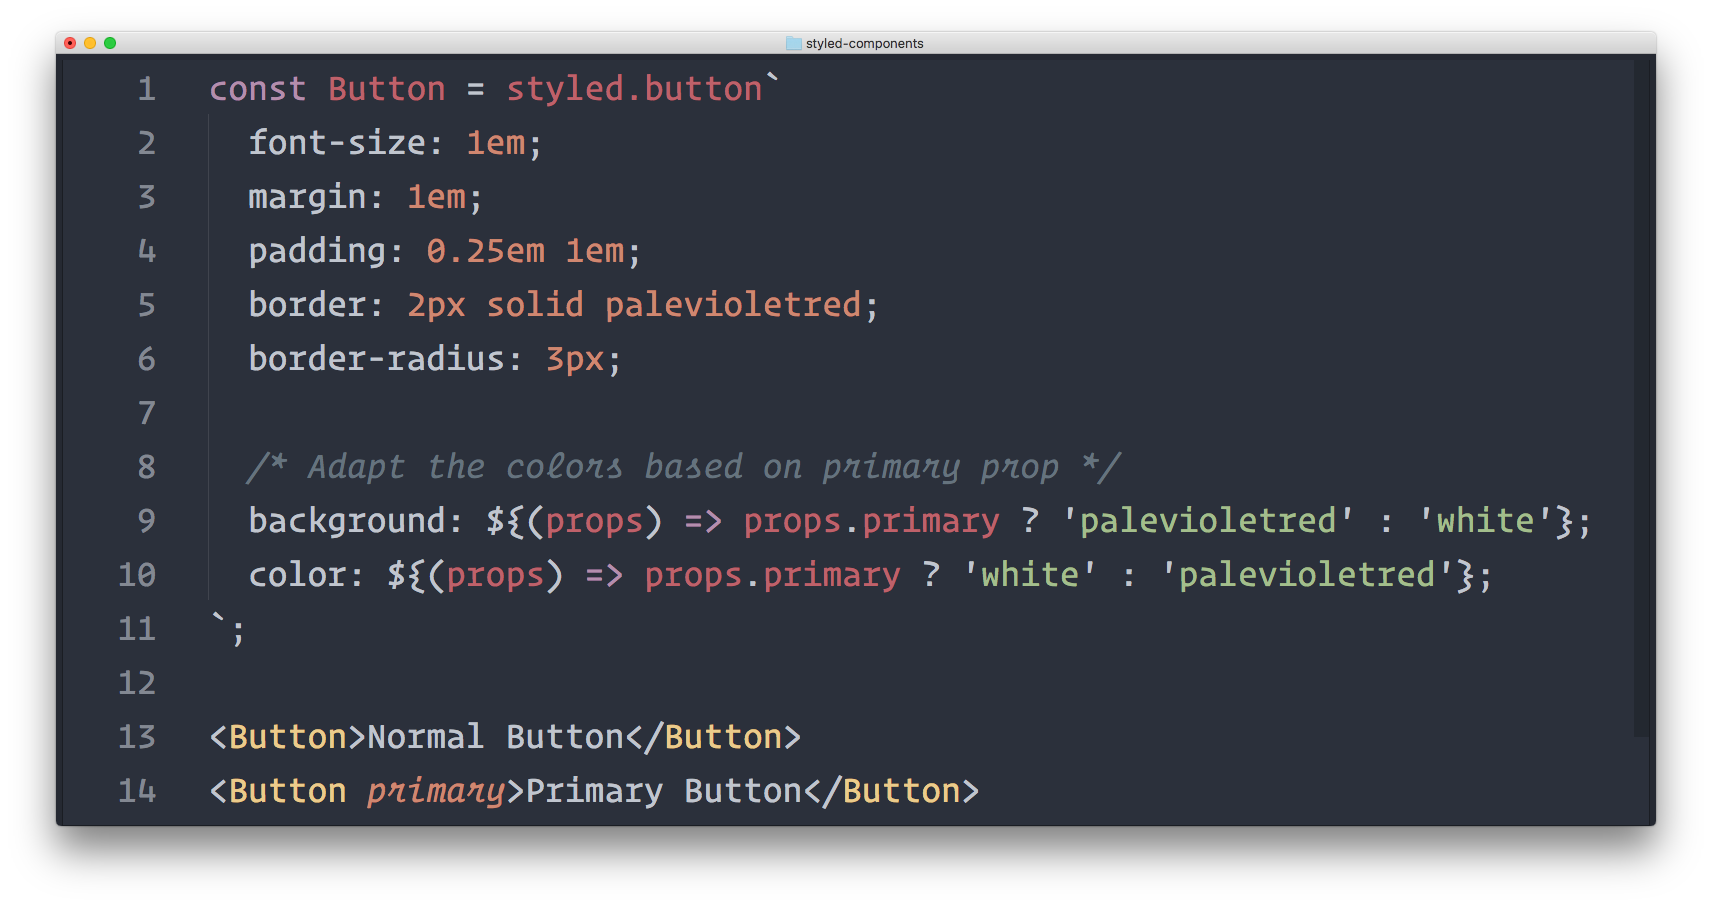
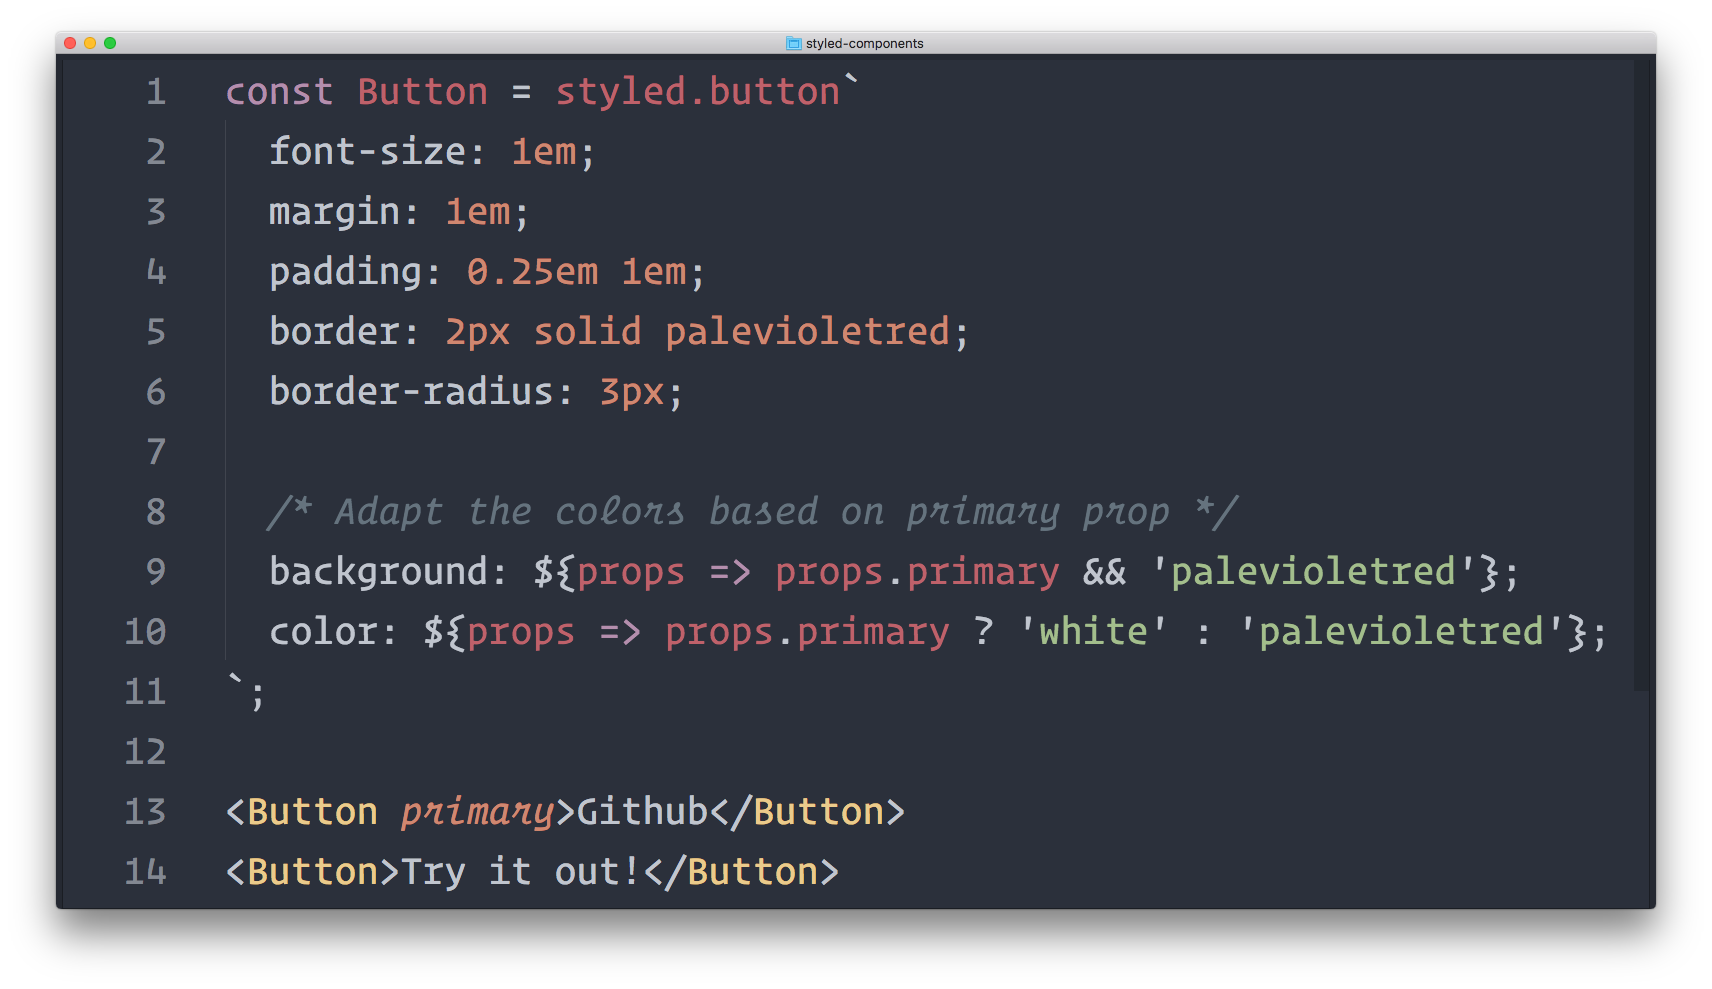
New screenshot, adapt site

diff --git a/src/App.js b/src/App.js
@@ -24,7 +24,7 @@ const Image = styled.img`
 `;
 
 const Logo = styled(Image)`
-  max-width: 100px;
+  max-width: 125px;
   margin-bottom: 0;
 `;
 
@@ -35,10 +35,10 @@ const Tagline = styled.h1`
   line-height: 1.5em;
   font-weight: 400;
   margin: 2em 0;
+`;
 
-  &:first-line {
-    font-weight: bold;
-  }
+const Bold = styled.span`
+  font-weight: bold;
 `;
 
 const Link = styled.a`
@@ -51,11 +51,16 @@ const Button = styled(Link)`
   border-radius: 3px;
   padding: 0.5em 2em;
   text-decoration: none;
+  font-size: 1em;
+  margin: 0 1em;
+
+  background: ${(props) => props.primary && 'palevioletred'};
+  color: ${(props) => props.primary ? 'white' : 'palevioletred'};
 `;
 
 const Footer = styled.p`
   margin-top: auto;
-  padding-top: 3em;
+  padding-top: 5em;
 `;
 
 class App extends Component {
@@ -63,9 +68,12 @@ class App extends Component {
     return (
       <Wrapper>
         <Logo src={logo} alt="styled-components" />
-        <Tagline>Visual primitives for the component age.<br />Use the best bits of ES6 and CSS to style your apps without stress 💅</Tagline>
+        <Tagline><Bold>Visual primitives for the component age.</Bold><br />Use the best bits of ES6 and CSS to style your apps without stress 💅</Tagline>
         <Image src={code} alt="Code sample of styled-components" />
-        <Button href="https://github.com/styled-components/styled-components" target="_blank">Github</Button>
+        <div>
+          <Button href="https://github.com/styled-components/styled-components" target="_blank" primary>Github</Button>
+          <Button href="http://www.webpackbin.com/V1VNoINA-" target="_blank">Try it out!</Button>
+        </div>
         <Footer>
           Made by <Link href="https://twitter.com/glenmaddern" bold target="_blank">@glenmaddern</Link> and <Link href="https://twitter.com/mxstbr" bold target="_blank">@mxstbr</Link>
         </Footer>
